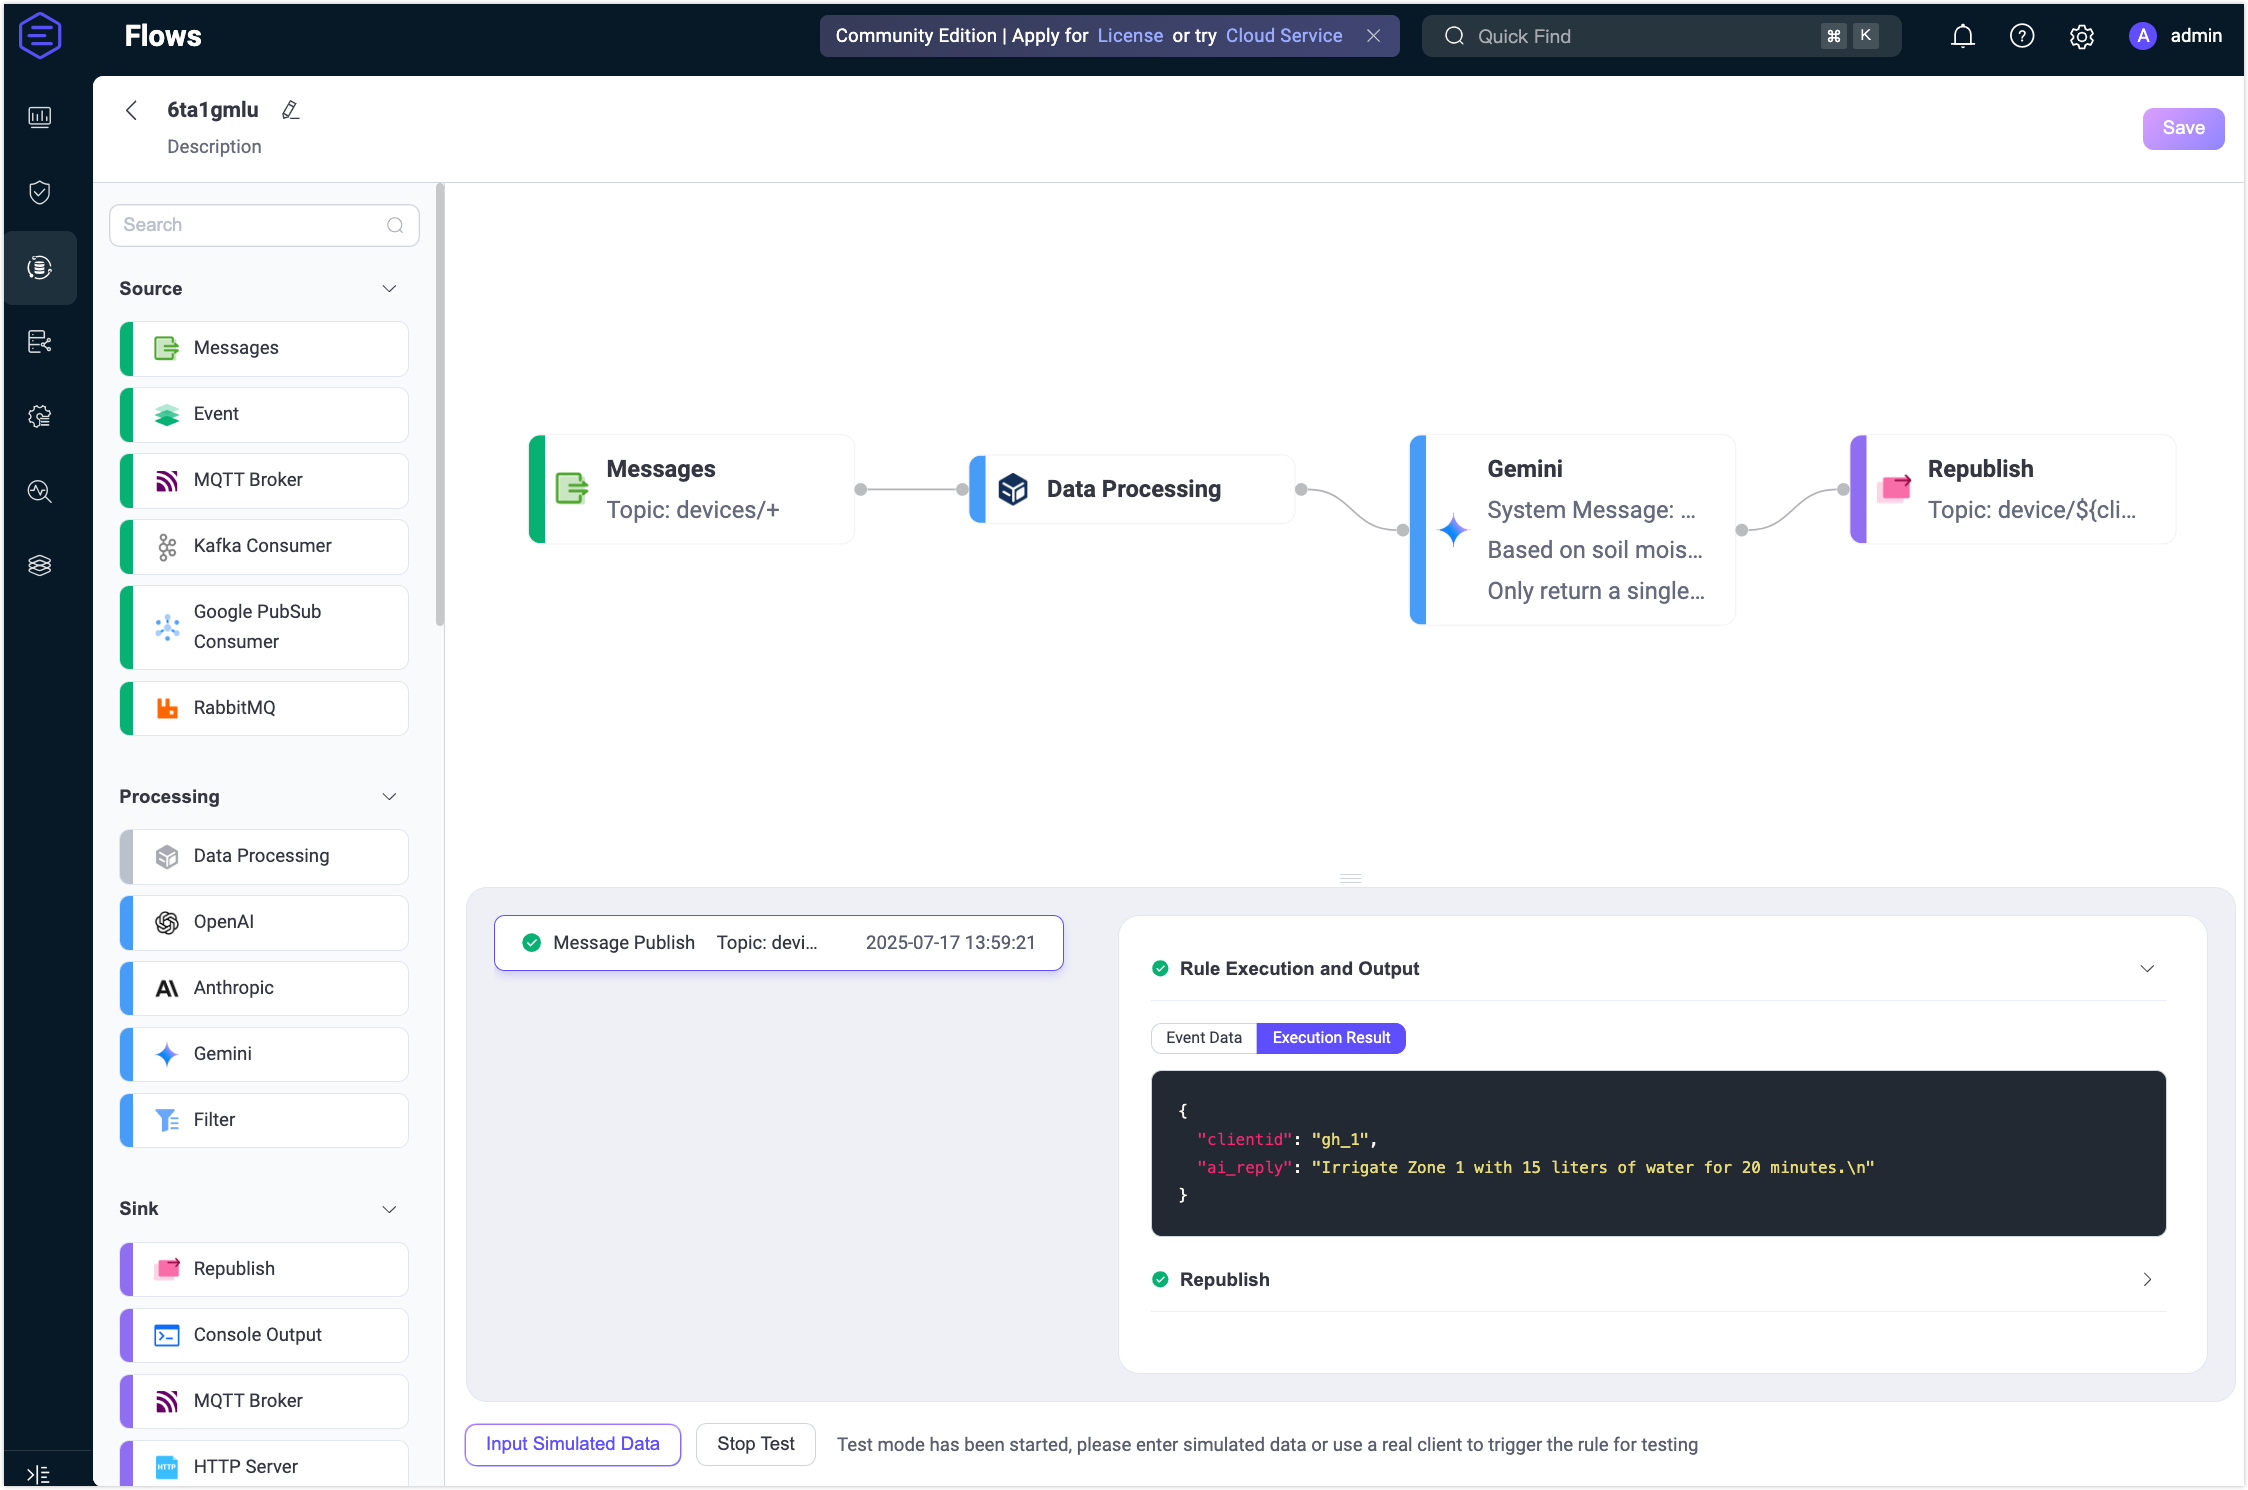
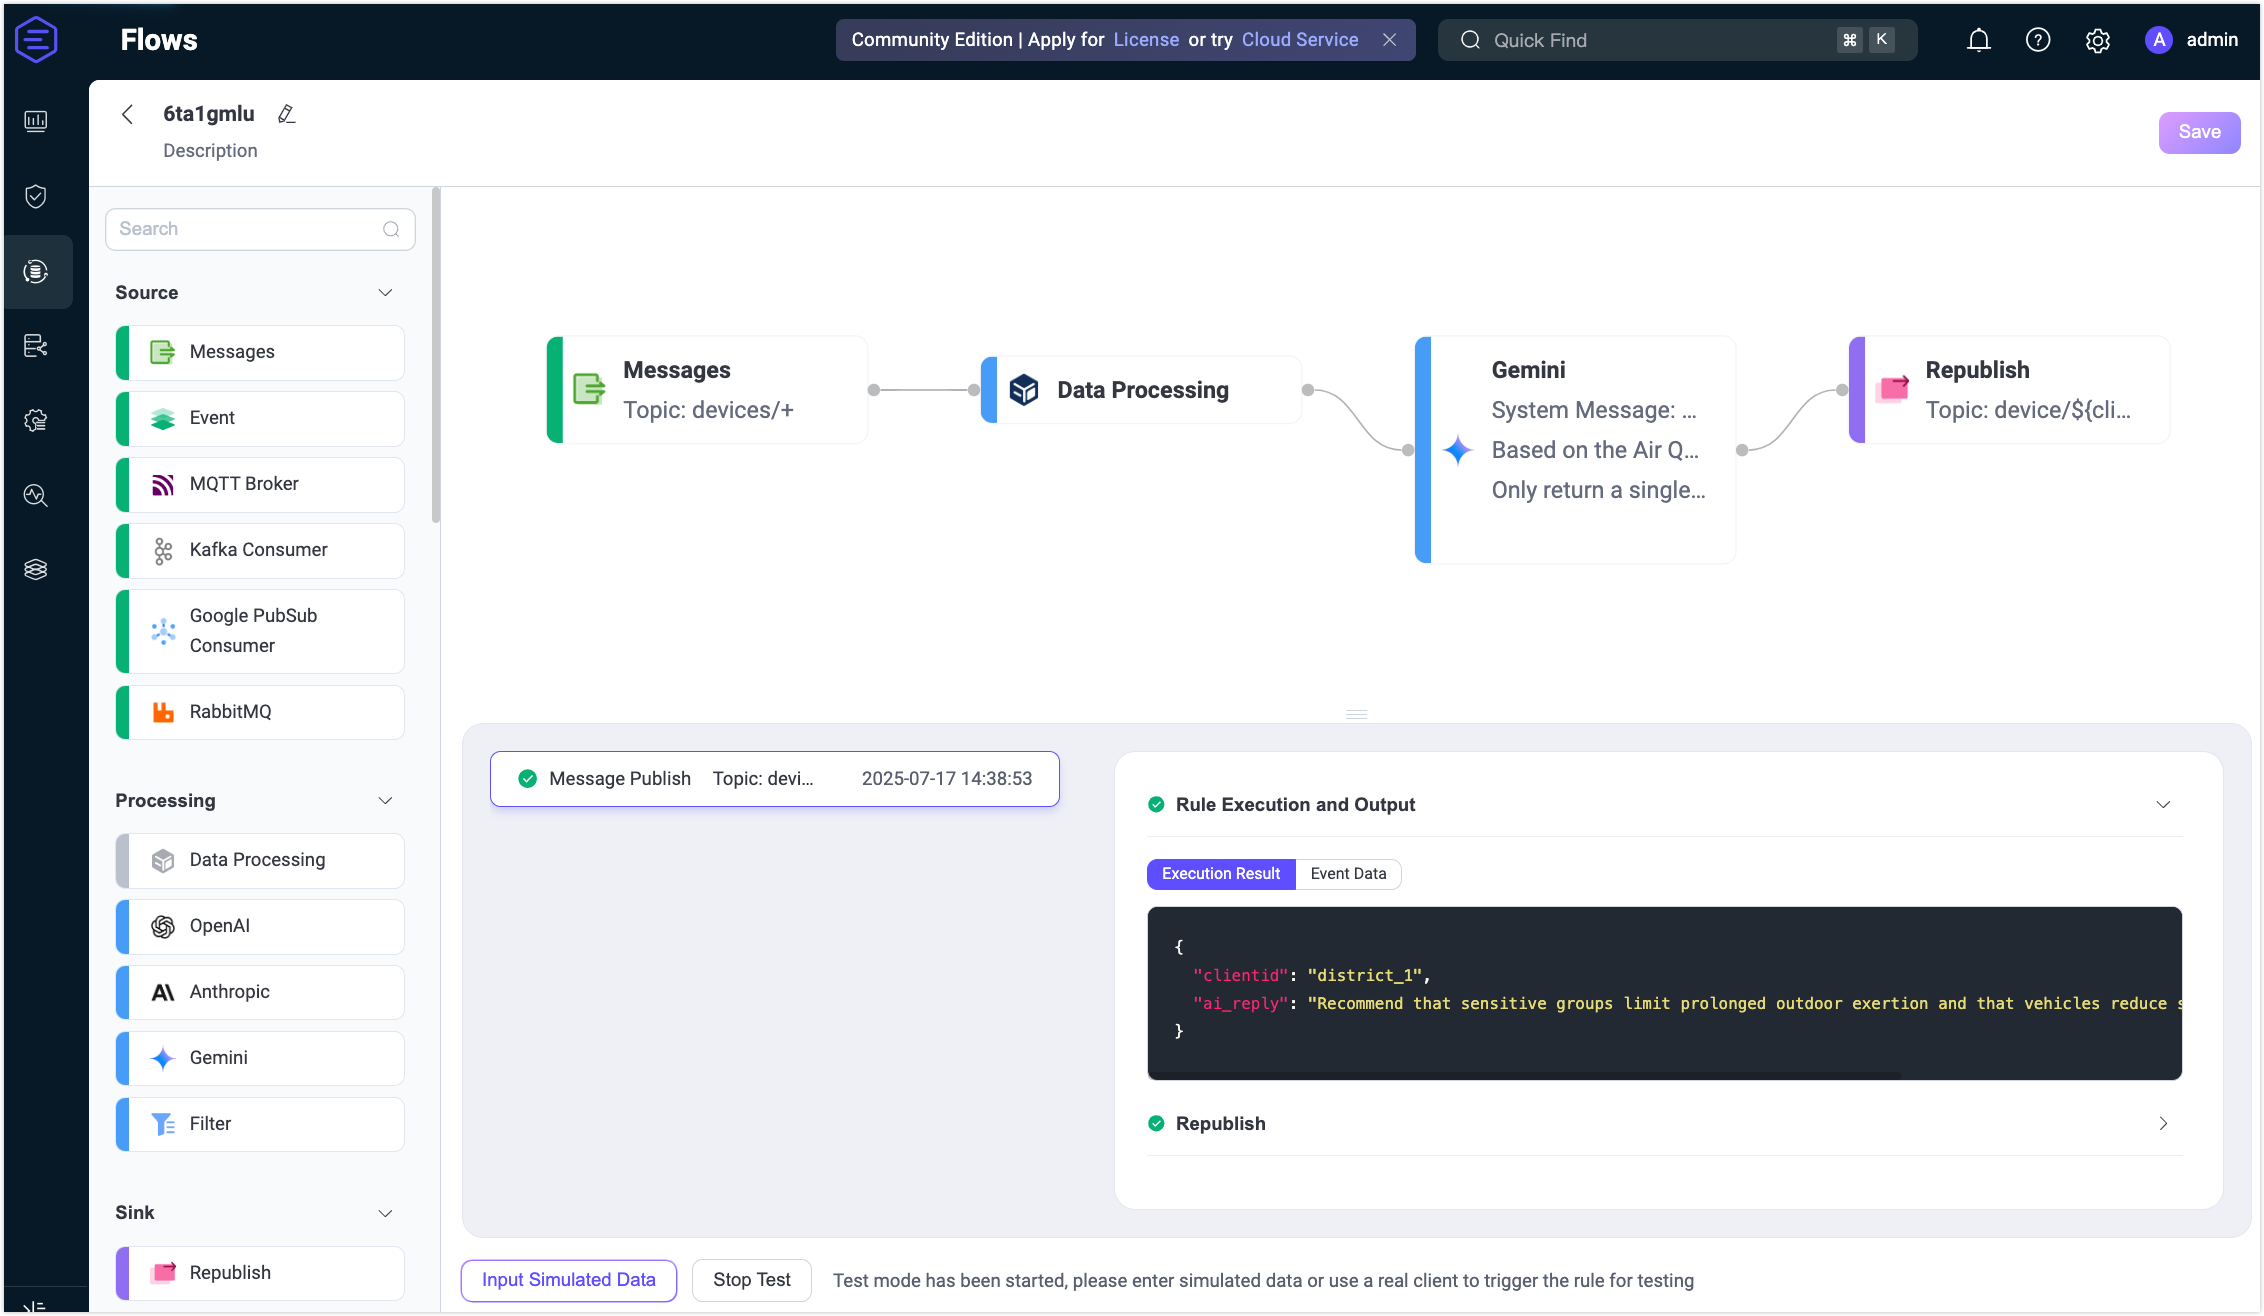
Update the use case

diff --git a/en_US/flow-designer/gemini-node-quick-start.md b/en_US/flow-designer/gemini-node-quick-start.md
@@ -6,24 +6,24 @@ This example demonstrates how to build a Flow that integrates with the Gemini LL
 
 ## Scenario Description
 
-In a smart agriculture deployment, each greenhouse is equipped with soil sensors that periodically publish JSON messages to the topic `devices/<greenhouse_id>`. Each message’s `prompt` field contains key environmental readings in plain text. The Flow will:
+In a smart city deployment, each district is equipped with environmental sensors that periodically publish JSON messages to the topic `devices/<district_id>`. Each message’s `prompt` field contains key readings in plain text, such as the air quality index and noise level. The Flow will:
 
-- **Data Processing**: Extract the sensor readings from the `prompt` field and expose the `clientid` (i.e., `greenhouse_id`) for downstream use.
-- **LLM-Based Processing**: Send the readings to Gemini to generate an actionable irrigation recommendation.
-- **Message Republish**: Publish the AI-generated advice back to the per-greenhouse control topic `device/<greenhouse_id>/reply`.
+- **Data Processing**: Extract the environmental readings from the `prompt` field and expose the `clientid` (i.e., `district_id`) for downstream use.
+- **LLM-Based Processing**: Send the readings to Gemini to generate an actionable public-safety or traffic-management recommendation (e.g., restrict traffic, adjust street-light levels).
+- **Message Republish**: Publish the AI-generated advice to the per-district control topic `device/<district_id>/reply`.
 
-**Sample incoming message (to `devices/gh_1`):**
+**Sample incoming message (to `devices/district_1`):**
 
 ```json
 {
-  "prompt": "Soil moisture is 18%. Air temperature is 28°C. Humidity is 65%."
+  "prompt": "Air Quality Index is 150. Noise level is 72 dB."
 }
 ```
 
-**Expected republished output (to `device/gh_1/reply`):**
+**Expected republished output (to `device/district_1/reply`):**
 
 ```
-Irrigate Zone 1 with 15 liters of water for 20 minutes.
+AQI is high—implement traffic restrictions in district_1 and increase pedestrian patrols.
 ```
 
 ## Create the Flow
@@ -63,9 +63,9 @@ Make sure you have a valid Gemini API Key.
      - **System Message**: Enter the following message:
 
        ```
-       You are an expert agricultural AI assistant.  
-       Based on soil moisture, air temperature, and humidity readings provided in the user prompt, generate a concise irrigation recommendation specifying the zone, amount of water (in liters), and duration.  
-       Only return a single sentence with the recommendation—no extra commentary.
+       You are an expert smart-city AI assistant.
+       Based on the Air Quality Index and noise level provided in the user prompt, generate a concise public-safety or traffic-management recommendation for the specified district.
+       Only return a single sentence with the action steps—no extra commentary.
        ```
        
      - **Model**: Here you can keep the default model `gemini-2.0-flash`.
@@ -100,7 +100,7 @@ Make sure you have a valid Gemini API Key.
    To quickly test the flow, you can use the **Diagnostic Tools** -> **WebSocket Client** on the Dashboard to simulate an MQTT client. Alternatively, you can also use the [MQTTX](https://mqttx.app/) tool or a real MQTT client:
 
    - Connect to your EMQX server.
-   - Subscribe to the topic, for example `device/gh_1/reply`.
+   - Subscribe to the topic, for example `device/district_1/reply`.
 
 2. Start Testing.
 
@@ -108,11 +108,11 @@ Make sure you have a valid Gemini API Key.
 
    - Click **Edit**, then click **Start Test** to open the test panel at the bottom.
 
-   - Click **Input Simulated Data** and publish the following message to topic `device/gh_1` by clicking **Submit Test**:
+   - Click **Input Simulated Data** and publish the following message to topic `devices/district_1` by clicking **Submit Test**:
 
      ```json
      {
-       "prompt": "Soil moisture is 18%. Air temperature is 28°C. Humidity is 65%."
+       "prompt": "Air Quality Index is 150. Noise level is 72 dB."
      }
      ```
    
@@ -124,7 +124,7 @@ Make sure you have a valid Gemini API Key.
 
    - Return to the **WebSocket Client** page and you should receive an AI-generated summary like:
 
-     > “Irrigate Zone 1 with 15 liters of water for 20 minutes.”
+     > “Reduce traffic volume in the district to mitigate air pollution and noise levels.”
 
    - If the test results are unsuccessful, error messages will be displayed accordingly.
 
